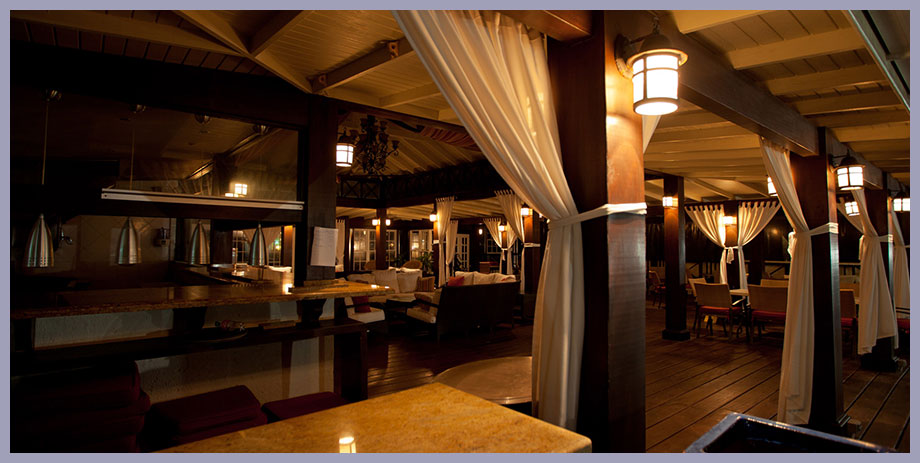
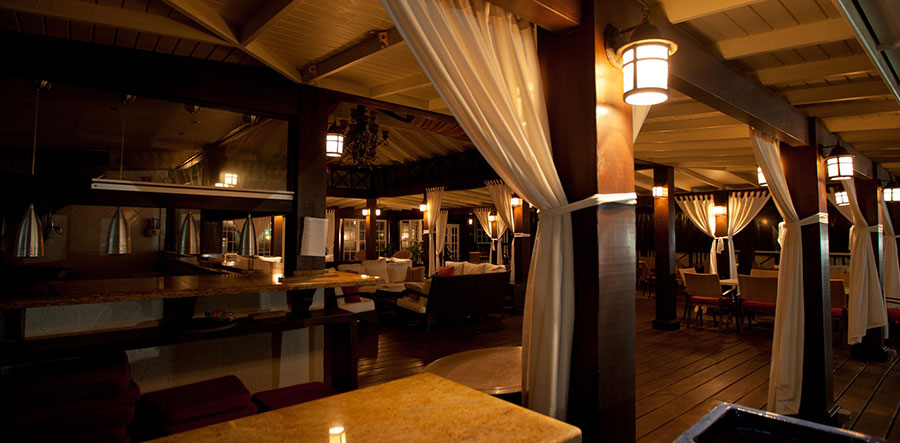
added a new image on restaurant page

diff --git a/css/main.css b/css/main.css
@@ -646,6 +646,10 @@ h2 {
   color: #63618b;
   margin: 0 auto;
 }
+.restaurant_wrapper img {
+  border: 10px solid #a1a0b9;
+  margin: 0 auto;
+}
 .restaurant_wrapper p {
   font-size: 1.2em;
 }

diff --git a/less/main.less b/less/main.less
@@ -760,6 +760,10 @@ h2 {
 .restaurant_wrapper {
   color: @violet;
   margin: 0 auto;
+  img {
+    border: 10px solid @light_violet;
+    margin: 0 auto;
+  }
   p {
     font-size: 1.2em;
   }
